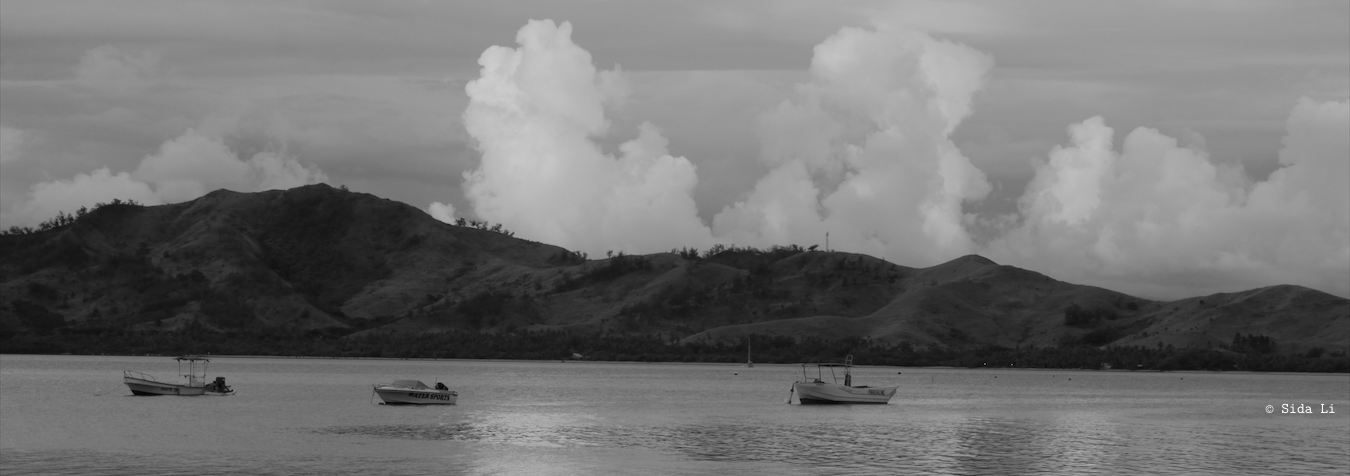
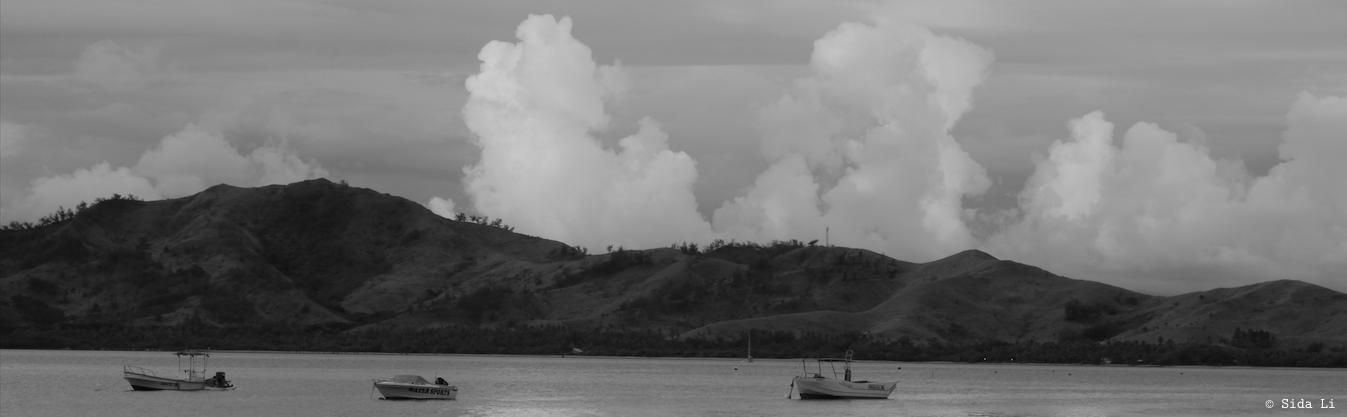
fix resume background alignment issue

diff --git a/_includes/css/grayscale.css b/_includes/css/grayscale.css
@@ -256,7 +256,7 @@ a:focus {
     width: 100%;
     padding: 50px 0;
     color: #fff;
-    background: url(/img/resume-bg.jpg) no-repeat center center scroll;
+    background: url(/img/resume-bg.jpg) no-repeat center bottom scroll;
     background-color: {{ site.color.primary-dark }};
     -webkit-background-size: cover;
     -moz-background-size: cover;
